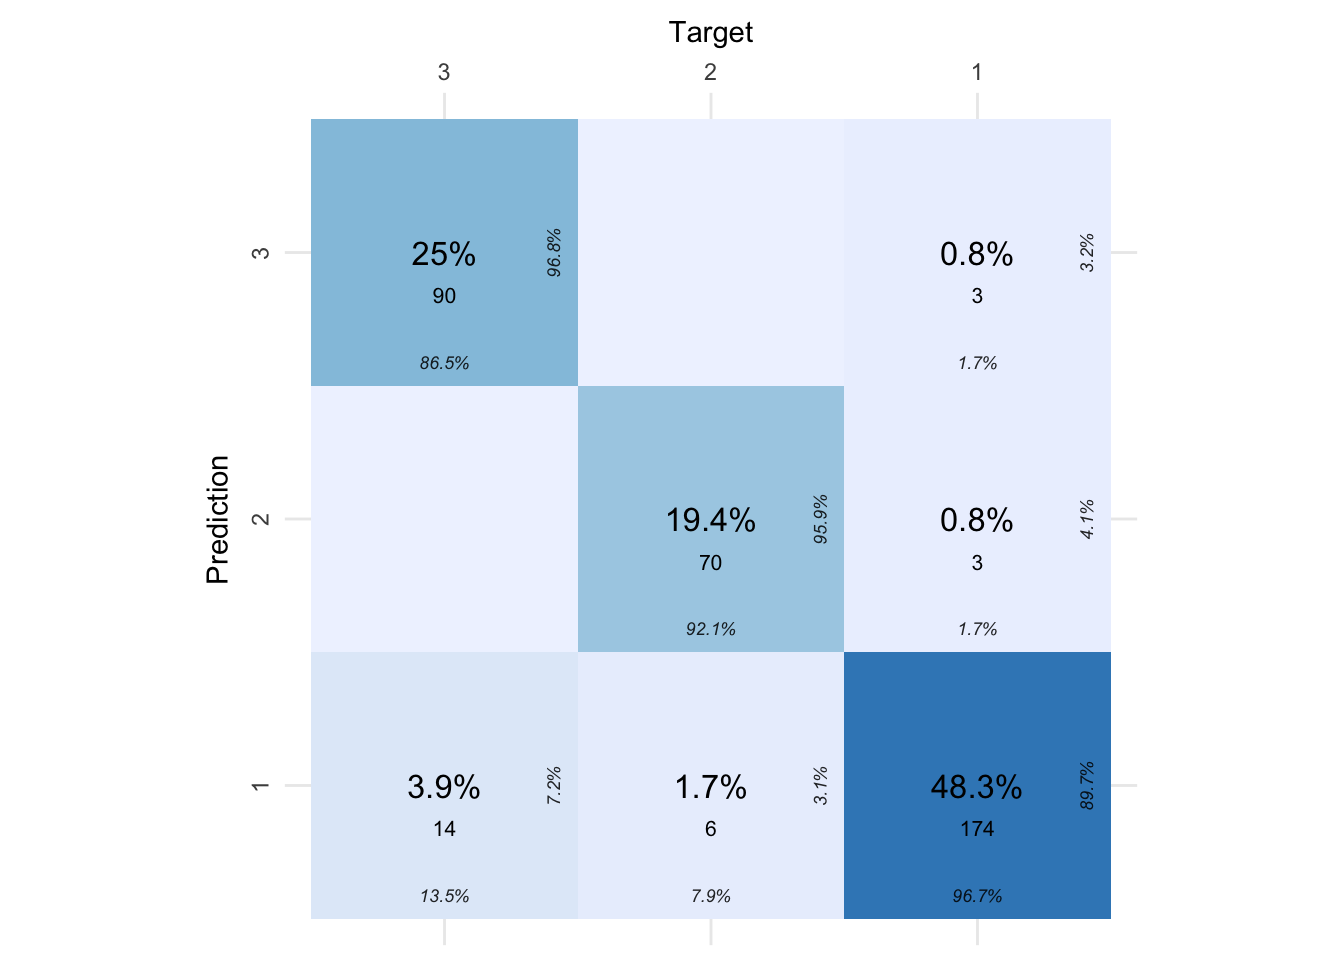
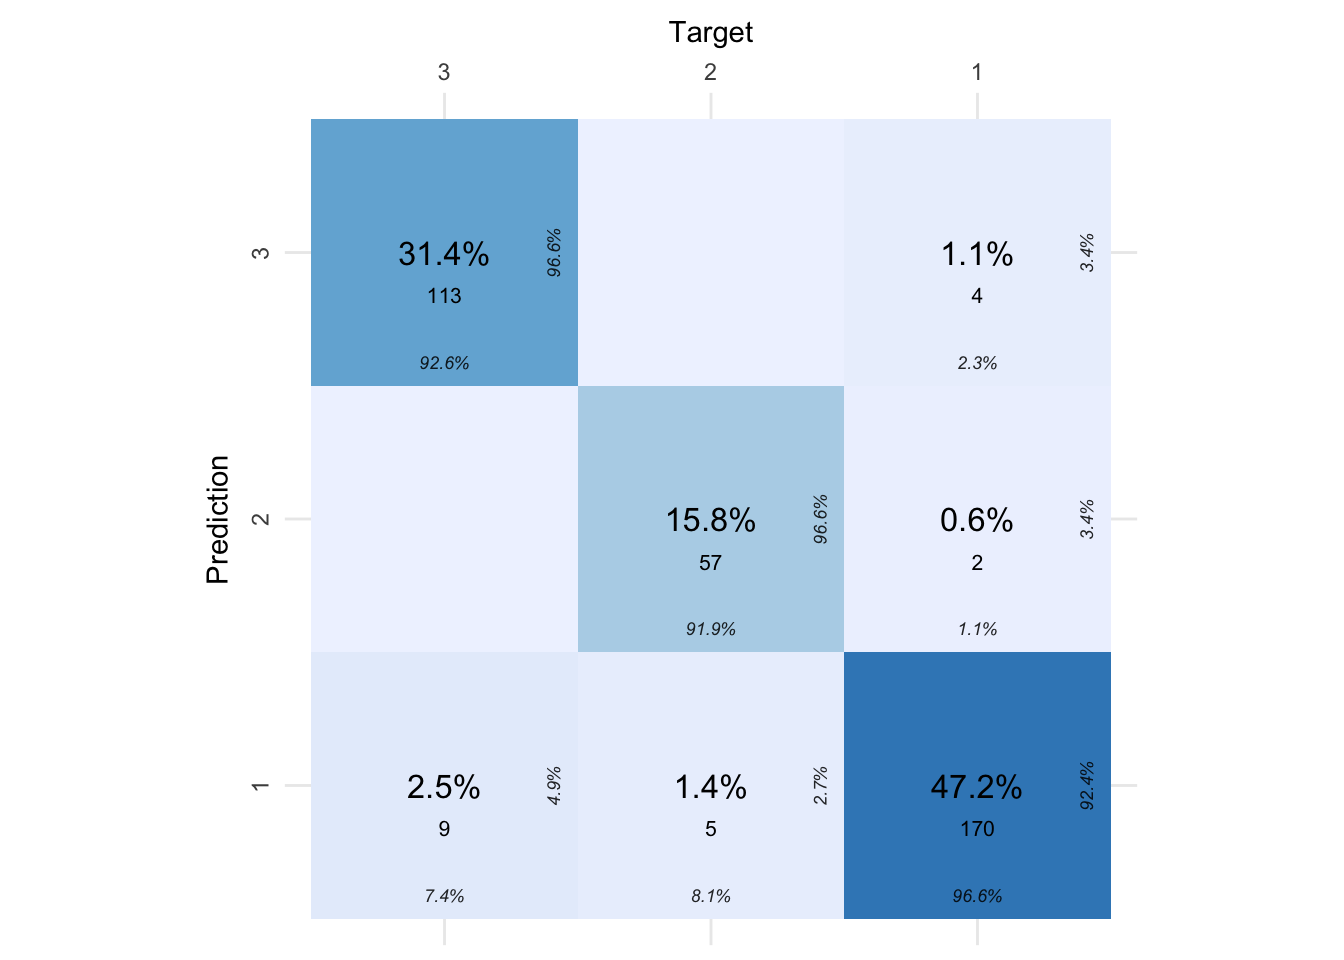
.

diff --git a/docs/3DS-III-03_em-with-clustering-problem.html b/docs/3DS-III-03_em-with-clustering-problem.html
@@ -651,58 +651,59 @@ Trong đó
 <span id="cb2-9"><a href="#cb2-9" aria-hidden="true" tabindex="-1"></a>muk <span class="ot">=</span> <span class="fu">lapply</span>(<span class="dv">1</span><span class="sc">:</span><span class="dv">3</span>, <span class="cf">function</span>(i) muk[i,])</span>
 <span id="cb2-10"><a href="#cb2-10" aria-hidden="true" tabindex="-1"></a>Sigmas <span class="ot">&lt;-</span> <span class="fu">lapply</span>(<span class="dv">1</span><span class="sc">:</span><span class="dv">3</span>, <span class="cf">function</span>(i) <span class="fu">matrix</span>(<span class="fu">c</span>(<span class="dv">1</span>,<span class="dv">0</span>,<span class="dv">0</span>,<span class="dv">1</span>),<span class="at">nrow =</span> <span class="dv">2</span>))</span>
 <span id="cb2-11"><a href="#cb2-11" aria-hidden="true" tabindex="-1"></a></span>
-<span id="cb2-12"><a href="#cb2-12" aria-hidden="true" tabindex="-1"></a><span class="cf">for</span>(iter <span class="cf">in</span> <span class="dv">1</span><span class="sc">:</span><span class="dv">30</span>){</span>
-<span id="cb2-13"><a href="#cb2-13" aria-hidden="true" tabindex="-1"></a><span class="co"># EM steps</span></span>
-<span id="cb2-14"><a href="#cb2-14" aria-hidden="true" tabindex="-1"></a>gammak<span class="ot">&lt;-</span></span>
-<span id="cb2-15"><a href="#cb2-15" aria-hidden="true" tabindex="-1"></a>purrr<span class="sc">::</span><span class="fu">pmap</span>(<span class="fu">list</span>(pik,muk,Sigmas), <span class="sc">~</span>{</span>
-<span id="cb2-16"><a href="#cb2-16" aria-hidden="true" tabindex="-1"></a> <span class="fu">apply</span>(dat,<span class="dv">1</span>, <span class="cf">function</span>(i) ..<span class="dv">1</span><span class="sc">*</span><span class="fu">dmvnorm</span>(i,..<span class="dv">2</span>,..<span class="dv">3</span>) )</span>
-<span id="cb2-17"><a href="#cb2-17" aria-hidden="true" tabindex="-1"></a>})<span class="sc">%&gt;%</span> purrr<span class="sc">::</span><span class="fu">pmap</span>(<span class="sc">~</span> <span class="fu">c</span>(...)<span class="sc">%&gt;%</span>{.<span class="sc">/</span><span class="fu">sum</span>(.)})<span class="sc">%&gt;%</span></span>
-<span id="cb2-18"><a href="#cb2-18" aria-hidden="true" tabindex="-1"></a> <span class="fu">reduce</span>(rbind)</span>
-<span id="cb2-19"><a href="#cb2-19" aria-hidden="true" tabindex="-1"></a> </span>
-<span id="cb2-20"><a href="#cb2-20" aria-hidden="true" tabindex="-1"></a><span class="co"># M step</span></span>
-<span id="cb2-21"><a href="#cb2-21" aria-hidden="true" tabindex="-1"></a>pik<span class="ot">&lt;-</span><span class="fu">t</span>(gammak)<span class="sc">%*%</span><span class="fu">rep</span>(<span class="dv">1</span>,N)<span class="sc">/</span>N</span>
-<span id="cb2-22"><a href="#cb2-22" aria-hidden="true" tabindex="-1"></a>muk <span class="ot">=</span> <span class="fu">apply</span>(gammak,<span class="dv">2</span>, <span class="cf">function</span>(i) <span class="fu">t</span>(dat)<span class="sc">%*%</span>i<span class="sc">/</span><span class="fu">sum</span>(i) )<span class="sc">%&gt;%</span></span>
-<span id="cb2-23"><a href="#cb2-23" aria-hidden="true" tabindex="-1"></a> {<span class="fu">lapply</span>(<span class="dv">1</span><span class="sc">:</span><span class="dv">3</span>, <span class="cf">function</span>(i) .[,i] )}</span>
-<span id="cb2-24"><a href="#cb2-24" aria-hidden="true" tabindex="-1"></a></span>
-<span id="cb2-25"><a href="#cb2-25" aria-hidden="true" tabindex="-1"></a>gammak <span class="ot">=</span> <span class="fu">lapply</span>(<span class="dv">1</span><span class="sc">:</span><span class="fu">ncol</span>(gammak), <span class="cf">function</span>(i) gammak[,i] )</span>
-<span id="cb2-26"><a href="#cb2-26" aria-hidden="true" tabindex="-1"></a></span>
-<span id="cb2-27"><a href="#cb2-27" aria-hidden="true" tabindex="-1"></a>Sigmas<span class="ot">&lt;-</span></span>
-<span id="cb2-28"><a href="#cb2-28" aria-hidden="true" tabindex="-1"></a><span class="fu">pmap</span>(<span class="fu">list</span>(muk, gammak), <span class="sc">~</span>{</span>
-<span id="cb2-29"><a href="#cb2-29" aria-hidden="true" tabindex="-1"></a> m <span class="ot">=</span> <span class="fu">t</span>(<span class="fu">apply</span>(dat,<span class="dv">1</span>, <span class="cf">function</span>(j) (j<span class="sc">-</span>..<span class="dv">1</span>)))</span>
-<span id="cb2-30"><a href="#cb2-30" aria-hidden="true" tabindex="-1"></a> <span class="fu">lapply</span>(<span class="dv">1</span><span class="sc">:</span><span class="fu">nrow</span>(m), <span class="cf">function</span>(i) m[i,]<span class="sc">%*%</span><span class="fu">t</span>(m[i,])<span class="sc">*</span>..<span class="dv">2</span>[i]<span class="sc">/</span><span class="fu">sum</span>(..<span class="dv">2</span>))<span class="sc">%&gt;%</span></span>
-<span id="cb2-31"><a href="#cb2-31" aria-hidden="true" tabindex="-1"></a>  <span class="fu">reduce</span>(<span class="st">`</span><span class="at">+</span><span class="st">`</span>)</span>
-<span id="cb2-32"><a href="#cb2-32" aria-hidden="true" tabindex="-1"></a>})</span>
-<span id="cb2-33"><a href="#cb2-33" aria-hidden="true" tabindex="-1"></a></span>
-<span id="cb2-34"><a href="#cb2-34" aria-hidden="true" tabindex="-1"></a>pred <span class="ot">=</span> <span class="fu">reduce</span>(gammak,cbind)<span class="sc">%&gt;%</span><span class="fu">apply</span>(<span class="dv">1</span>, which.max)</span>
-<span id="cb2-35"><a href="#cb2-35" aria-hidden="true" tabindex="-1"></a></span>
-<span id="cb2-36"><a href="#cb2-36" aria-hidden="true" tabindex="-1"></a><span class="co"># #create animated images</span></span>
-<span id="cb2-37"><a href="#cb2-37" aria-hidden="true" tabindex="-1"></a><span class="co"># </span></span>
-<span id="cb2-38"><a href="#cb2-38" aria-hidden="true" tabindex="-1"></a><span class="co"># f = function()  plot(dat, col = pred, main = paste0(iter))</span></span>
-<span id="cb2-39"><a href="#cb2-39" aria-hidden="true" tabindex="-1"></a><span class="co"># k = ggplotify::as.ggplot(f)</span></span>
-<span id="cb2-40"><a href="#cb2-40" aria-hidden="true" tabindex="-1"></a><span class="co"># if(!dir.exists(&quot;_supp/myfolder&quot;)) dir.create(&quot;_supp/myfolder&quot;)</span></span>
-<span id="cb2-41"><a href="#cb2-41" aria-hidden="true" tabindex="-1"></a><span class="co"># ggsave(plot = f, filename =  paste0(&quot;_supp/myfolder/&quot;,iter,&quot;.png&quot;), device = &quot;png&quot;)</span></span>
-<span id="cb2-42"><a href="#cb2-42" aria-hidden="true" tabindex="-1"></a></span>
-<span id="cb2-43"><a href="#cb2-43" aria-hidden="true" tabindex="-1"></a>}</span>
-<span id="cb2-44"><a href="#cb2-44" aria-hidden="true" tabindex="-1"></a></span>
-<span id="cb2-45"><a href="#cb2-45" aria-hidden="true" tabindex="-1"></a><span class="co"># ## list file names and read in</span></span>
-<span id="cb2-46"><a href="#cb2-46" aria-hidden="true" tabindex="-1"></a><span class="co"># imgs &lt;- list.files(&quot;_supp/myfolder&quot;, full.names = TRUE)</span></span>
-<span id="cb2-47"><a href="#cb2-47" aria-hidden="true" tabindex="-1"></a><span class="co"># img_list &lt;- lapply(imgs, magick::image_read)</span></span>
-<span id="cb2-48"><a href="#cb2-48" aria-hidden="true" tabindex="-1"></a><span class="co"># ## join the images together</span></span>
-<span id="cb2-49"><a href="#cb2-49" aria-hidden="true" tabindex="-1"></a><span class="co"># img_joined &lt;- magick::image_join(img_list)</span></span>
-<span id="cb2-50"><a href="#cb2-50" aria-hidden="true" tabindex="-1"></a><span class="co"># ## animate at 2 frames per second</span></span>
-<span id="cb2-51"><a href="#cb2-51" aria-hidden="true" tabindex="-1"></a><span class="co"># img_animated &lt;- magick::image_animate(img_joined, fps = 1)</span></span>
-<span id="cb2-52"><a href="#cb2-52" aria-hidden="true" tabindex="-1"></a><span class="co"># ## save to disk</span></span>
-<span id="cb2-53"><a href="#cb2-53" aria-hidden="true" tabindex="-1"></a><span class="co"># magick::image_write(image = img_animated,</span></span>
-<span id="cb2-54"><a href="#cb2-54" aria-hidden="true" tabindex="-1"></a><span class="co">#             path = &quot;img/img1.gif&quot;)</span></span>
-<span id="cb2-55"><a href="#cb2-55" aria-hidden="true" tabindex="-1"></a><span class="co"># unlink(&quot;_supp/myfolder&quot;, recursive = TRUE)</span></span>
-<span id="cb2-56"><a href="#cb2-56" aria-hidden="true" tabindex="-1"></a></span>
+<span id="cb2-12"><a href="#cb2-12" aria-hidden="true" tabindex="-1"></a>iter_n <span class="ot">=</span> <span class="fu">expand.grid</span>(letters,letters)<span class="sc">%&gt;%</span> <span class="fu">apply</span>(<span class="dv">1</span>,purrr<span class="sc">::</span><span class="fu">lift_dv</span>(paste0))<span class="sc">%&gt;%</span> <span class="fu">sort</span>()</span>
+<span id="cb2-13"><a href="#cb2-13" aria-hidden="true" tabindex="-1"></a><span class="cf">for</span>(iter <span class="cf">in</span> <span class="dv">1</span><span class="sc">:</span><span class="dv">30</span>){</span>
+<span id="cb2-14"><a href="#cb2-14" aria-hidden="true" tabindex="-1"></a><span class="co"># EM steps</span></span>
+<span id="cb2-15"><a href="#cb2-15" aria-hidden="true" tabindex="-1"></a>gammak<span class="ot">&lt;-</span></span>
+<span id="cb2-16"><a href="#cb2-16" aria-hidden="true" tabindex="-1"></a>purrr<span class="sc">::</span><span class="fu">pmap</span>(<span class="fu">list</span>(pik,muk,Sigmas), <span class="sc">~</span>{</span>
+<span id="cb2-17"><a href="#cb2-17" aria-hidden="true" tabindex="-1"></a> <span class="fu">apply</span>(dat,<span class="dv">1</span>, <span class="cf">function</span>(i) ..<span class="dv">1</span><span class="sc">*</span><span class="fu">dmvnorm</span>(i,..<span class="dv">2</span>,..<span class="dv">3</span>) )</span>
+<span id="cb2-18"><a href="#cb2-18" aria-hidden="true" tabindex="-1"></a>})<span class="sc">%&gt;%</span> purrr<span class="sc">::</span><span class="fu">pmap</span>(<span class="sc">~</span> <span class="fu">c</span>(...)<span class="sc">%&gt;%</span>{.<span class="sc">/</span><span class="fu">sum</span>(.)})<span class="sc">%&gt;%</span></span>
+<span id="cb2-19"><a href="#cb2-19" aria-hidden="true" tabindex="-1"></a> <span class="fu">reduce</span>(rbind)</span>
+<span id="cb2-20"><a href="#cb2-20" aria-hidden="true" tabindex="-1"></a> </span>
+<span id="cb2-21"><a href="#cb2-21" aria-hidden="true" tabindex="-1"></a><span class="co"># M step</span></span>
+<span id="cb2-22"><a href="#cb2-22" aria-hidden="true" tabindex="-1"></a>pik<span class="ot">&lt;-</span><span class="fu">t</span>(gammak)<span class="sc">%*%</span><span class="fu">rep</span>(<span class="dv">1</span>,N)<span class="sc">/</span>N</span>
+<span id="cb2-23"><a href="#cb2-23" aria-hidden="true" tabindex="-1"></a>muk <span class="ot">=</span> <span class="fu">apply</span>(gammak,<span class="dv">2</span>, <span class="cf">function</span>(i) <span class="fu">t</span>(dat)<span class="sc">%*%</span>i<span class="sc">/</span><span class="fu">sum</span>(i) )<span class="sc">%&gt;%</span></span>
+<span id="cb2-24"><a href="#cb2-24" aria-hidden="true" tabindex="-1"></a> {<span class="fu">lapply</span>(<span class="dv">1</span><span class="sc">:</span><span class="dv">3</span>, <span class="cf">function</span>(i) .[,i] )}</span>
+<span id="cb2-25"><a href="#cb2-25" aria-hidden="true" tabindex="-1"></a></span>
+<span id="cb2-26"><a href="#cb2-26" aria-hidden="true" tabindex="-1"></a>gammak <span class="ot">=</span> <span class="fu">lapply</span>(<span class="dv">1</span><span class="sc">:</span><span class="fu">ncol</span>(gammak), <span class="cf">function</span>(i) gammak[,i] )</span>
+<span id="cb2-27"><a href="#cb2-27" aria-hidden="true" tabindex="-1"></a></span>
+<span id="cb2-28"><a href="#cb2-28" aria-hidden="true" tabindex="-1"></a>Sigmas<span class="ot">&lt;-</span></span>
+<span id="cb2-29"><a href="#cb2-29" aria-hidden="true" tabindex="-1"></a><span class="fu">pmap</span>(<span class="fu">list</span>(muk, gammak), <span class="sc">~</span>{</span>
+<span id="cb2-30"><a href="#cb2-30" aria-hidden="true" tabindex="-1"></a> m <span class="ot">=</span> <span class="fu">t</span>(<span class="fu">apply</span>(dat,<span class="dv">1</span>, <span class="cf">function</span>(j) (j<span class="sc">-</span>..<span class="dv">1</span>)))</span>
+<span id="cb2-31"><a href="#cb2-31" aria-hidden="true" tabindex="-1"></a> <span class="fu">lapply</span>(<span class="dv">1</span><span class="sc">:</span><span class="fu">nrow</span>(m), <span class="cf">function</span>(i) m[i,]<span class="sc">%*%</span><span class="fu">t</span>(m[i,])<span class="sc">*</span>..<span class="dv">2</span>[i]<span class="sc">/</span><span class="fu">sum</span>(..<span class="dv">2</span>))<span class="sc">%&gt;%</span></span>
+<span id="cb2-32"><a href="#cb2-32" aria-hidden="true" tabindex="-1"></a>  <span class="fu">reduce</span>(<span class="st">`</span><span class="at">+</span><span class="st">`</span>)</span>
+<span id="cb2-33"><a href="#cb2-33" aria-hidden="true" tabindex="-1"></a>})</span>
+<span id="cb2-34"><a href="#cb2-34" aria-hidden="true" tabindex="-1"></a></span>
+<span id="cb2-35"><a href="#cb2-35" aria-hidden="true" tabindex="-1"></a>pred <span class="ot">=</span> <span class="fu">reduce</span>(gammak,cbind)<span class="sc">%&gt;%</span><span class="fu">apply</span>(<span class="dv">1</span>, which.max)</span>
+<span id="cb2-36"><a href="#cb2-36" aria-hidden="true" tabindex="-1"></a></span>
+<span id="cb2-37"><a href="#cb2-37" aria-hidden="true" tabindex="-1"></a><span class="co">#create animated images</span></span>
+<span id="cb2-38"><a href="#cb2-38" aria-hidden="true" tabindex="-1"></a></span>
+<span id="cb2-39"><a href="#cb2-39" aria-hidden="true" tabindex="-1"></a>f <span class="ot">=</span> <span class="cf">function</span>()  <span class="fu">plot</span>(dat, <span class="at">col =</span> pred, <span class="at">main =</span> <span class="fu">paste0</span>(iter))</span>
+<span id="cb2-40"><a href="#cb2-40" aria-hidden="true" tabindex="-1"></a>k <span class="ot">=</span> ggplotify<span class="sc">::</span><span class="fu">as.ggplot</span>(f)</span>
+<span id="cb2-41"><a href="#cb2-41" aria-hidden="true" tabindex="-1"></a><span class="cf">if</span>(<span class="sc">!</span><span class="fu">dir.exists</span>(<span class="st">&quot;_supp/myfolder&quot;</span>)) <span class="fu">dir.create</span>(<span class="st">&quot;_supp/myfolder&quot;</span>)</span>
+<span id="cb2-42"><a href="#cb2-42" aria-hidden="true" tabindex="-1"></a><span class="fu">ggsave</span>(<span class="at">plot =</span> f, <span class="at">filename =</span>  <span class="fu">paste0</span>(<span class="st">&quot;_supp/myfolder/&quot;</span>,iter_n[iter],<span class="st">&quot;.png&quot;</span>), <span class="at">device =</span> <span class="st">&quot;png&quot;</span>)</span>
+<span id="cb2-43"><a href="#cb2-43" aria-hidden="true" tabindex="-1"></a></span>
+<span id="cb2-44"><a href="#cb2-44" aria-hidden="true" tabindex="-1"></a>}</span>
+<span id="cb2-45"><a href="#cb2-45" aria-hidden="true" tabindex="-1"></a></span>
+<span id="cb2-46"><a href="#cb2-46" aria-hidden="true" tabindex="-1"></a><span class="do">## list file names and read in</span></span>
+<span id="cb2-47"><a href="#cb2-47" aria-hidden="true" tabindex="-1"></a>imgs <span class="ot">&lt;-</span> <span class="fu">list.files</span>(<span class="st">&quot;_supp/myfolder&quot;</span>, <span class="at">full.names =</span> <span class="cn">TRUE</span>)</span>
+<span id="cb2-48"><a href="#cb2-48" aria-hidden="true" tabindex="-1"></a>img_list <span class="ot">&lt;-</span> <span class="fu">lapply</span>(imgs, magick<span class="sc">::</span>image_read)</span>
+<span id="cb2-49"><a href="#cb2-49" aria-hidden="true" tabindex="-1"></a><span class="do">## join the images together</span></span>
+<span id="cb2-50"><a href="#cb2-50" aria-hidden="true" tabindex="-1"></a>img_joined <span class="ot">&lt;-</span> magick<span class="sc">::</span><span class="fu">image_join</span>(img_list)</span>
+<span id="cb2-51"><a href="#cb2-51" aria-hidden="true" tabindex="-1"></a><span class="do">## animate at 2 frames per second</span></span>
+<span id="cb2-52"><a href="#cb2-52" aria-hidden="true" tabindex="-1"></a>img_animated <span class="ot">&lt;-</span> magick<span class="sc">::</span><span class="fu">image_animate</span>(img_joined, <span class="at">fps =</span> <span class="dv">2</span>)</span>
+<span id="cb2-53"><a href="#cb2-53" aria-hidden="true" tabindex="-1"></a><span class="do">## save to disk</span></span>
+<span id="cb2-54"><a href="#cb2-54" aria-hidden="true" tabindex="-1"></a>magick<span class="sc">::</span><span class="fu">image_write</span>(<span class="at">image =</span> img_animated,</span>
+<span id="cb2-55"><a href="#cb2-55" aria-hidden="true" tabindex="-1"></a>            <span class="at">path =</span> <span class="st">&quot;img/img1.gif&quot;</span>)</span>
+<span id="cb2-56"><a href="#cb2-56" aria-hidden="true" tabindex="-1"></a><span class="fu">unlink</span>(<span class="st">&quot;_supp/myfolder&quot;</span>, <span class="at">recursive =</span> <span class="cn">TRUE</span>)</span>
 <span id="cb2-57"><a href="#cb2-57" aria-hidden="true" tabindex="-1"></a></span>
-<span id="cb2-58"><a href="#cb2-58" aria-hidden="true" tabindex="-1"></a>b1 <span class="ot">=</span> <span class="fu">sort</span>(<span class="fu">table</span>(pred))</span>
-<span id="cb2-59"><a href="#cb2-59" aria-hidden="true" tabindex="-1"></a>b2 <span class="ot">=</span> <span class="fu">sort</span>(<span class="fu">table</span>(y))</span>
-<span id="cb2-60"><a href="#cb2-60" aria-hidden="true" tabindex="-1"></a>a <span class="ot">=</span> <span class="fu">cbind</span>(<span class="fu">names</span>(b2)<span class="sc">%&gt;%</span> <span class="fu">as.numeric</span>(), <span class="fu">names</span>(b1)<span class="sc">%&gt;%</span> <span class="fu">as.numeric</span>())</span>
-<span id="cb2-61"><a href="#cb2-61" aria-hidden="true" tabindex="-1"></a>y <span class="ot">=</span> <span class="fu">sapply</span>(y, <span class="cf">function</span>(i)  a[<span class="fu">match</span>(i,a[,<span class="dv">1</span>]),<span class="dv">2</span>])</span>
-<span id="cb2-62"><a href="#cb2-62" aria-hidden="true" tabindex="-1"></a>confu <span class="ot">=</span> <span class="fu">table</span>(pred,y)<span class="sc">%&gt;%</span> broom<span class="sc">::</span><span class="fu">tidy</span>()</span>
-<span id="cb2-63"><a href="#cb2-63" aria-hidden="true" tabindex="-1"></a><span class="fu">save</span>(confu, <span class="at">file =</span> <span class="st">&quot;_supp/confu1.RData&quot;</span>)</span></code></pre></div>
+<span id="cb2-58"><a href="#cb2-58" aria-hidden="true" tabindex="-1"></a></span>
+<span id="cb2-59"><a href="#cb2-59" aria-hidden="true" tabindex="-1"></a>b1 <span class="ot">=</span> <span class="fu">sort</span>(<span class="fu">table</span>(pred))</span>
+<span id="cb2-60"><a href="#cb2-60" aria-hidden="true" tabindex="-1"></a>b2 <span class="ot">=</span> <span class="fu">sort</span>(<span class="fu">table</span>(y))</span>
+<span id="cb2-61"><a href="#cb2-61" aria-hidden="true" tabindex="-1"></a>a <span class="ot">=</span> <span class="fu">cbind</span>(<span class="fu">names</span>(b2)<span class="sc">%&gt;%</span> <span class="fu">as.numeric</span>(), <span class="fu">names</span>(b1)<span class="sc">%&gt;%</span> <span class="fu">as.numeric</span>())</span>
+<span id="cb2-62"><a href="#cb2-62" aria-hidden="true" tabindex="-1"></a>y <span class="ot">=</span> <span class="fu">sapply</span>(y, <span class="cf">function</span>(i)  a[<span class="fu">match</span>(i,a[,<span class="dv">1</span>]),<span class="dv">2</span>])</span>
+<span id="cb2-63"><a href="#cb2-63" aria-hidden="true" tabindex="-1"></a>confu <span class="ot">=</span> <span class="fu">table</span>(pred,y)<span class="sc">%&gt;%</span> broom<span class="sc">::</span><span class="fu">tidy</span>()</span>
+<span id="cb2-64"><a href="#cb2-64" aria-hidden="true" tabindex="-1"></a><span class="fu">save</span>(confu, <span class="at">file =</span> <span class="st">&quot;_supp/confu1.RData&quot;</span>)</span></code></pre></div>
 <div class="figure" style="text-align: center"><span id="fig:fig1"></span>
 <img src="img/img1.gif" alt="*Quá trình thay đổi biến target trong 30 iterations*"  />
 <p class="caption">
@@ -713,15 +714,17 @@ Figure 3.1: <em>Quá trình thay đổi biến target trong 30 iterations</em>
 <p>Như trong <span style="color: #424242; font-size: 18px;"><em>Fig.</em></span> <a href="#fig:fig1">3.1</a> ta thấy rằng qua mỗi lần iteration, thì các observations lại thay đổi qua lại trong 3 cụm. Càng về cuối thì sự thay đổi này càng ít đi và đến cuối cùng thì dường như không còn thay đổi nữa.</p>
 <p>Sau 30 lần chạy, ta sẽ có kết quả được thể hiện như trong bảng confusion <span style="color: #424242; font-size: 18px;"><em>Fig.</em></span> <a href="#fig:fig2">3.2</a> bên dưới</p>
 <div class="sourceCode" id="cb3"><pre class="sourceCode r"><code class="sourceCode r"><span id="cb3-1"><a href="#cb3-1" aria-hidden="true" tabindex="-1"></a><span class="fu">load</span>(<span class="st">&quot;_supp/confu1.RData&quot;</span>)</span>
-<span id="cb3-2"><a href="#cb3-2" aria-hidden="true" tabindex="-1"></a>cvms<span class="sc">::</span><span class="fu">plot_confusion_matrix</span>(confu,<span class="at">target_col =</span> <span class="st">&quot;y&quot;</span>, <span class="at">prediction_col =</span> <span class="st">&quot;pred&quot;</span>,</span>
-<span id="cb3-3"><a href="#cb3-3" aria-hidden="true" tabindex="-1"></a>                                                  <span class="at">counts_col =</span> <span class="st">&quot;n&quot;</span>)</span></code></pre></div>
+<span id="cb3-2"><a href="#cb3-2" aria-hidden="true" tabindex="-1"></a>a <span class="ot">=</span> cvms<span class="sc">::</span><span class="fu">plot_confusion_matrix</span>(confu,<span class="at">target_col =</span> <span class="st">&quot;y&quot;</span>, <span class="at">prediction_col =</span> <span class="st">&quot;pred&quot;</span>,</span>
+<span id="cb3-3"><a href="#cb3-3" aria-hidden="true" tabindex="-1"></a>                                                  <span class="at">counts_col =</span> <span class="st">&quot;n&quot;</span>)</span>
+<span id="cb3-4"><a href="#cb3-4" aria-hidden="true" tabindex="-1"></a>r <span class="ot">=</span> <span class="fu">mutate</span>(a<span class="sc">$</span>data, <span class="at">g =</span> <span class="fu">ifelse</span>(Target<span class="sc">==</span>Prediction,<span class="dv">1</span>,<span class="dv">0</span>))<span class="sc">%&gt;%</span> <span class="fu">group_by</span>(g)<span class="sc">%&gt;%</span> <span class="fu">summarise</span>(<span class="at">s=</span><span class="fu">sum</span>(N))<span class="sc">%$%</span> <span class="st">`</span><span class="at">names&lt;-</span><span class="st">`</span>(s,g)</span>
+<span id="cb3-5"><a href="#cb3-5" aria-hidden="true" tabindex="-1"></a>a</span></code></pre></div>
 <div class="figure" style="text-align: center"><span id="fig:fig2"></span>
 <img src="3DS-III-03_em-with-clustering-problem_files/figure-html/fig2-1.png" alt="*Bảng confusion thể hiện tỉ lệ dự đoán đúng và sai theo trong từng trường hợp.*" width="672" />
 <p class="caption">
 Figure 3.2: <em>Bảng confusion thể hiện tỉ lệ dự đoán đúng và sai theo trong từng trường hợp.</em>
 </p>
 </div>
-<p>Như vậy tỉ lệ dự đoán chính xác lên đến 92.7% chính là tồng phần trăm thể hiện trên đường chéo của <span style="color: #424242; font-size: 18px;"><em>Fig.</em></span> <a href="#fig:fig2">3.2</a>.</p>
+<p>Như vậy tỉ lệ dự đoán chính xác lên đến 94.4444444% chính là tồng phần trăm thể hiện trên đường chéo của <span style="color: #424242; font-size: 18px;"><em>Fig.</em></span> <a href="#fig:fig2">3.2</a>.</p>
 <!-- ----------------------------------------------------------------------------- -->
 <!-- # _References_ {-} -->
 </div>
